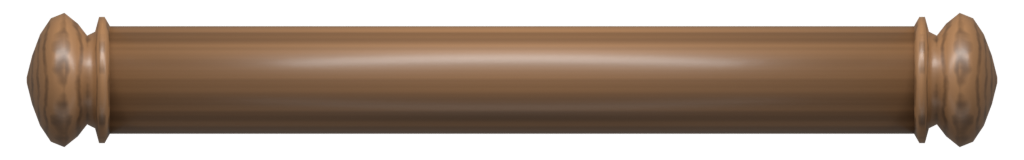
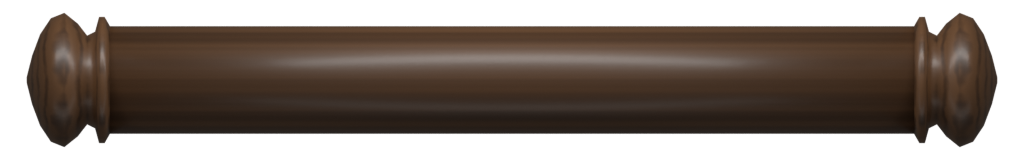
Carte du monde : rouleaux de bois plus foncés (retour du test visuel)
Claude-Session: https://claude.ai/code/session_013ugp1X8PsWvQAKHfbqn4LG

diff --git a/tools/asset_pipeline/ui/map_parchment_blender.py b/tools/asset_pipeline/ui/map_parchment_blender.py
@@ -155,9 +155,9 @@ def _wood_material() -> bpy.types.Material:
     ramp = _node(nt, "ShaderNodeValToRGB", 80, 0)
     els = ramp.color_ramp.elements
     els[0].position = 0.25
-    els[0].color = (0.075, 0.035, 0.014, 1.0)  # brun foncé (veines)
+    els[0].color = (0.035, 0.015, 0.006, 1.0)  # brun foncé (veines)
     els[1].position = 0.95
-    els[1].color = (0.24, 0.12, 0.05, 1.0)     # brun chaud (linéaire)
+    els[1].color = (0.12, 0.055, 0.022, 1.0)   # brun chaud (linéaire) — foncé le 25/11
     nt.links.new(mix.outputs[0], ramp.inputs["Fac"])
     nt.links.new(ramp.outputs["Color"], bsdf.inputs["Base Color"])
     bsdf.inputs["Roughness"].default_value = 0.45
@@ -204,6 +204,10 @@ def _cap_profile(x0: float, sign: float):
 
 def render_roll(out_dir: str) -> str:
     sc = _new_scene(1024, 160)
+    # Ambiance faible : bois sombre (retour du test visuel du 25/11/2026).
+    for n in sc.world.node_tree.nodes:
+        if n.bl_idname == "ShaderNodeBackground":
+            n.inputs[1].default_value = 0.12
     wood = _wood_material()
     half = BODY_LEN / 2
     body = _lathe("roll_body", [(-half, BODY_R), (half, BODY_R)])
@@ -216,8 +220,8 @@ def render_roll(out_dir: str) -> str:
     # reflet est uniforme le long du rouleau, le corps reste étirable.
     _camera_ortho(sc, VIEW_W, (0.0, -10.0, 0.0), (math.radians(90), 0.0, 0.0))
     for name, size_y, energy, loc, rx in (
-        ("key", 1.2, 650.0, (0.0, -3.0, 3.0), 45.0),
-        ("rim", 2.0, 120.0, (0.0, -2.0, -3.0), -145.0),
+        ("key", 1.2, 420.0, (0.0, -3.0, 3.0), 45.0),
+        ("rim", 2.0, 80.0, (0.0, -2.0, -3.0), -145.0),
     ):
         ld = bpy.data.lights.new(name, "AREA")
         ld.shape = "RECTANGLE"

diff --git a/docs/correctifs/FIX.19_carte_parchemin_textures.md b/docs/correctifs/FIX.19_carte_parchemin_textures.md
@@ -11,7 +11,7 @@ mais le rendu n'est pas beau. Arbitrage du propriétaire : corriger les
   `tools/asset_pipeline/ui/map_parchment_blender.py` (Blender 5.1.2, Cycles,
   100 % procédural) : rouleau de bois tourné, parchemin répétable sans couture,
   bord usé.
-- **Rouleaux** : texture en 3 tranches (pommeaux non étirés), hauteur à
+- **Rouleaux** : bois foncé (2e retour visuel), texture en 3 tranches (pommeaux non étirés), hauteur à
   l'échelle de la police (`SkinScale`, base 16 px) au lieu de 18 px fixes,
   dessinés par-dessus le contenu (`DrawParchmentRolls`, avant `End`).
 - **Cadre** : fond de fenêtre en parchemin répété, bord usé en 9 tranches,
